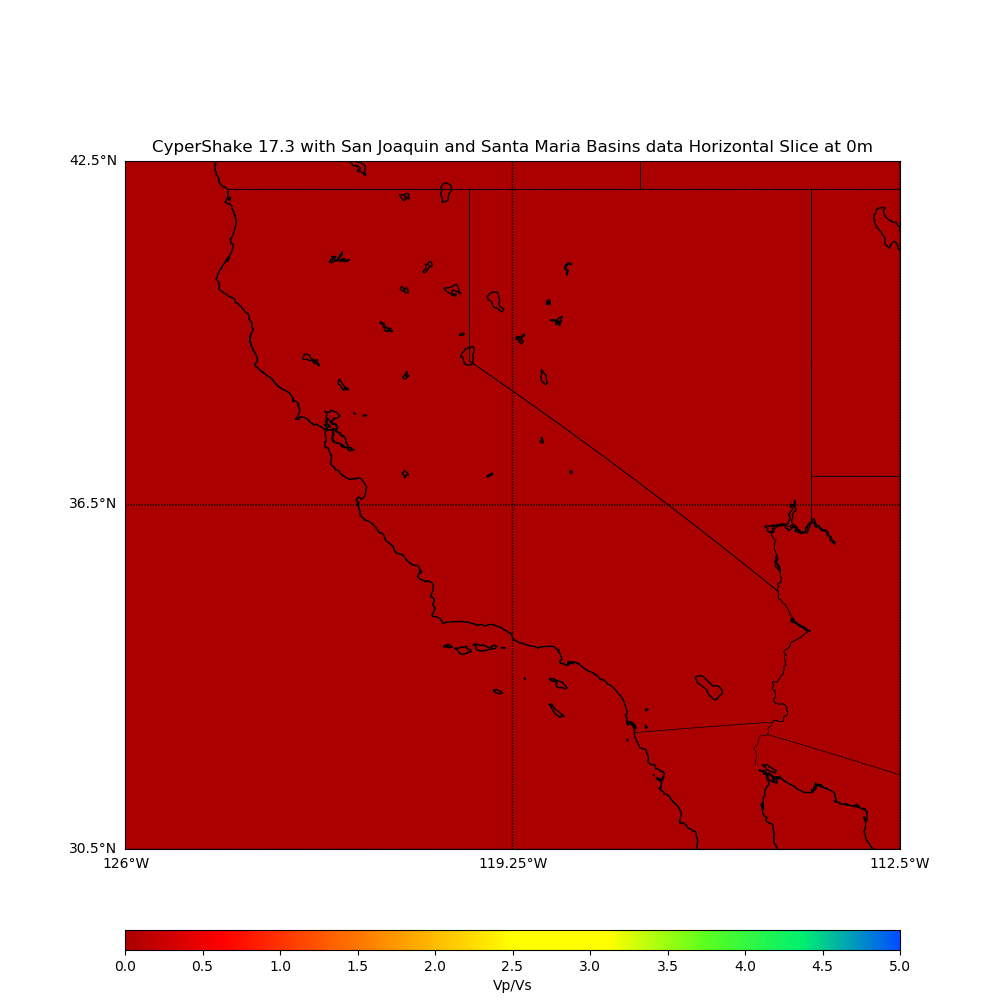
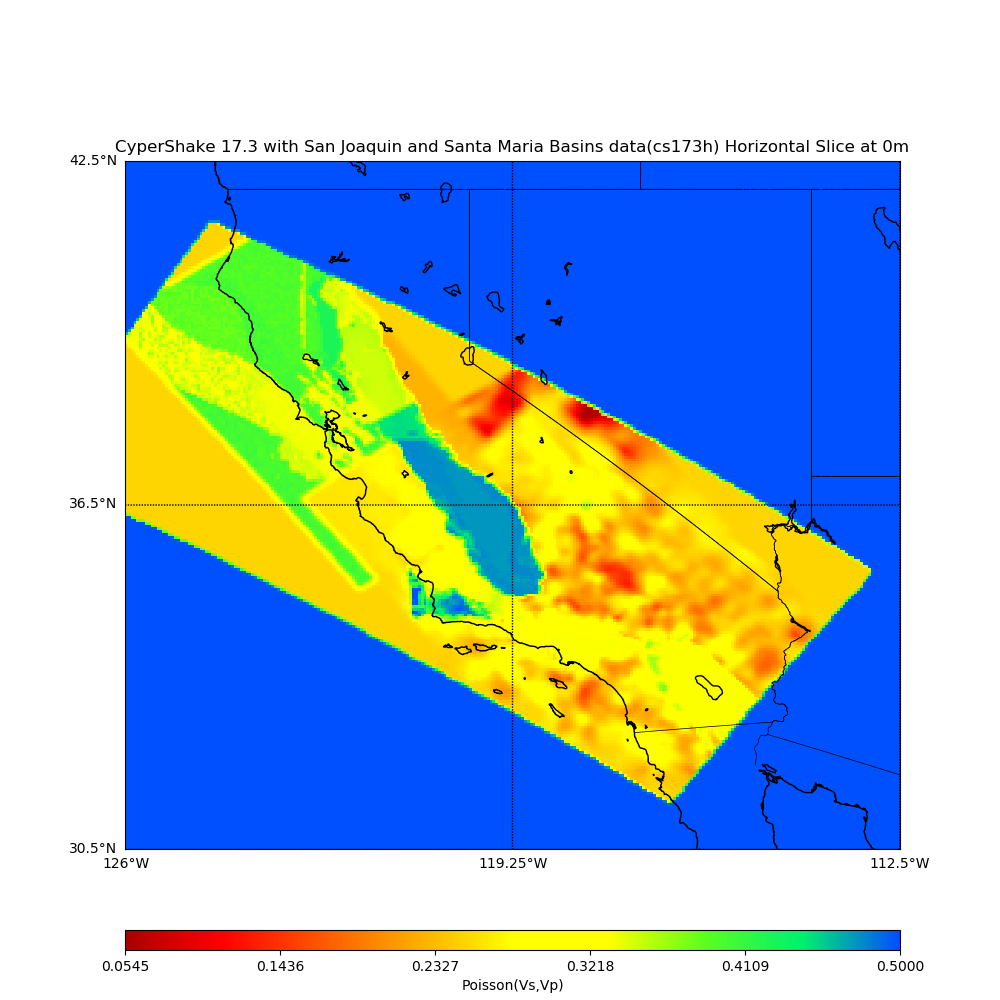
regroup poisson calculation

diff --git a/utilities/pycvm/pycvm/common.py b/utilities/pycvm/pycvm/common.py
@@ -573,14 +573,28 @@ class UCVM:
             return properties[0]
 
         return properties
-    
+
     ##
     #  Gets the Poisson value for a given set of Vs, Vp pair
-    #  https://www.glossary.oilfield.slb.com/en/Terms/p/poissons_ratio.aspx
     #  @param vs 
     #  @param vp
     #  @return poisson value
     def poisson(self, vs, vp) :
+       if vs == 0 :
+          return 0.0
+
+       if vp == 0 :
+          return 0.0
+
+       return vp/vs
+
+    ##
+    #  Gets the Poisson value for a given set of Vs, Vp pair base on
+    #  https://www.glossary.oilfield.slb.com/en/Terms/p/poissons_ratio.aspx
+    #  @param vs 
+    #  @param vp
+    #  @return poisson value
+    def poissonComplex(self, vs, vp) :
        if vs == 0 :
           return 0.5
 

diff --git a/utilities/make_norcal_plots.py b/utilities/make_norcal_plots.py
@@ -83,10 +83,10 @@ print cmd
 cmd="./plot_vs30_etree_map.py -b 30.5,-126.0 -u 42.5,-112.5 -s 0.05 -a s -c cencal,cca,cvmsi  -o \"norcal_vs30_etree_map.png\""
 os.system(cmd)
 print cmd
-cmd="./plot_z25_map.py -b 30.5,-126.0 -u 42.5,-112.5 -s 0.05 -c cencal,cca,cvmsi -o \"norcal_z25_map.png\""
+cmd="./plot_z25_map.py -b 30.5,-126.0 -u 42.5,-112.5 -s 0.05 -a s -c cencal,cca,cvmsi -o \"norcal_z25_map.png\""
 os.system(cmd)
 print cmd
-cmd="./plot_z10_map.py -b 30.5,-126.0 -u 42.5,-112.5 -s 0.05 -c cencal,cca,cvmsi -o \"norcal_z10_map.png\""
+cmd="./plot_z10_map.py -b 30.5,-126.0 -u 42.5,-112.5 -s 0.05 -a d -c cencal,cca,cvmsi -o \"norcal_z10_map.png\""
 os.system(cmd)
 print cmd
 
